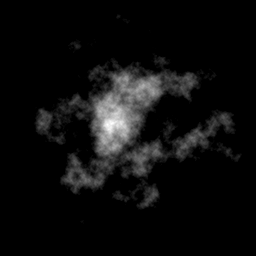
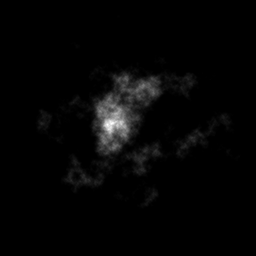
Add rivermap generation

diff --git a/src/map.rs b/src/map.rs
@@ -3,7 +3,10 @@ use noise::NoiseFn;
 use image::RgbImage;
 use image::Rgb;
 
+use pathfinding::directed::dijkstra::dijkstra;
+
 use std::cmp::max;
+use std::collections::HashMap;
 use std::path::PathBuf;
 
 struct PerlinOctave {
@@ -65,6 +68,7 @@ pub struct ProvBuilder {
     pub heightmap: Vec<f64>,
     pub tempmap: Vec<f64>,
     pub rainmap: Vec<f64>,
+    pub rivermap: Vec<f64>,
     water_level: f64,
     water_taper: f64,
     temp_base: f64,
@@ -73,6 +77,11 @@ pub struct ProvBuilder {
     rain_wind: (f64, f64),
     rain_height: f64,
     rain_fall: f64,
+    river_height: f64,
+    river_rain: f64,
+    river_spread: f64,
+    river_drill: f64,
+    river_drainage: f64,
 }
 
 impl ProvBuilder {
@@ -80,6 +89,7 @@ impl ProvBuilder {
         size: usize, freq: f64, pers: f64, lac: f64, min: f64, max: f64, water_level: f64, water_taper: f64, 
         temp_base: f64, temp_height: f64, temp_latitude: f64,
         rain_wind: (f64, f64), rain_height: f64, rain_fall: f64,
+        river_height: f64, river_rain: f64, river_spread: f64, river_drill: f64, river_drainage: f64,
     ) -> Self {
         let noise = PerlinOctave {
             noise: Perlin::new(),
@@ -97,6 +107,7 @@ impl ProvBuilder {
             heightmap: Vec::new(),
             tempmap: Vec::new(),
             rainmap: Vec::new(),
+            rivermap: Vec::new(),
             water_level,
             water_taper,
             temp_base,
@@ -105,6 +116,11 @@ impl ProvBuilder {
             rain_wind,
             rain_height,
             rain_fall,
+            river_height,
+            river_rain,
+            river_spread,
+            river_drill,
+            river_drainage
         }
     }
 
@@ -123,7 +139,7 @@ impl ProvBuilder {
                     _ => 0.,
                 };
 
-                self.heightmap.push(val);
+                self.heightmap.push(val * val);
             }
         }
     }
@@ -272,6 +288,94 @@ impl ProvBuilder {
         let max = self.rainmap.iter().max_by(|x, y| x.partial_cmp(y).unwrap()).unwrap();
         let min = self.rainmap.iter().min_by(|x, y| x.partial_cmp(y).unwrap()).unwrap();
         self.rainmap = self.rainmap.iter().map(|x| (x - min) / (max - min)).collect();
+    }
+
+    pub fn gen_rivermap(&mut self) {
+        let size = self.noise.size;
+
+        let choices = [
+            1,
+            -1 as isize,
+            size as isize,
+            -(size as isize),
+            1 + size as isize,
+            -1 + size as isize,
+            1 - (size as isize),
+            -1 - (size as isize),
+        ];
+
+        let mut river_drainage = vec![0; size * size];
+        let mut stack = Vec::new();
+
+        loop {
+            if stack.is_empty() {
+                if let Some((i, _)) = self.heightmap
+                    .iter()
+                    .enumerate()
+                    .filter(|(i, &height)| {
+                        height > 0. && river_drainage[*i] == 0
+                    })
+                    .min_by(|(_, a), (_, b)| a.partial_cmp(b).unwrap()) 
+                {
+                    stack.push(i);
+                } else {
+                    break;
+                }
+            }
+
+            let i = stack.pop().unwrap();
+            let (paths, _) = dijkstra(&i, 
+                |&i| {
+                    let choices: Vec<(usize, usize)> = choices
+                        .iter()
+                        .map(|ii| {
+                            let ii = (i as isize + ii) as usize;
+                            (ii, (4f64.powf(self.heightmap[ii] - self.heightmap[i]) * 10.) as usize)
+                        })
+                        .collect();
+                    
+                    return choices;
+                },
+                |&i| {
+                    river_drainage[i] != 0 || self.heightmap[i] == 0.
+                }
+            ).unwrap();
+            
+            for (i, &path) in paths.iter().enumerate() {
+                if i + 1 < paths.len() {
+                    river_drainage[path] = paths[i + 1];
+                }
+            }
+        }
+
+        self.rivermap = vec![0.; size * size];
+
+        for _ in 0..size*2 {
+            let mut rivermap_new = vec![0.; size * size];
+
+            for (i, &rain) in self.rainmap.iter().enumerate() {
+                if river_drainage[i] > 0 {
+                    rivermap_new[i] += rain;
+                }
+            }
+            for (i, &river) in river_drainage.iter().enumerate() {
+                if river > 0 {
+                    rivermap_new[river] += self.rivermap[i];
+                }
+            }
+
+            self.rivermap = rivermap_new;
+        }
+
+        let mx = self.rivermap
+            .iter()
+            .max_by(|a, b| a.partial_cmp(b).unwrap())
+            .unwrap()
+            .clone();
+        
+        for river in self.rivermap.iter_mut() {
+            *river /= mx;
+        }
     }
 
     pub fn export<T: Into<PathBuf>>(&self, map: &Vec<f64>, path: T) {

diff --git a/src/main.rs b/src/main.rs
@@ -259,13 +259,15 @@ impl Core {
 }
 
 fn main() {
-    let mut map = map::ProvBuilder::new(256, 0.25, 0.6, 2., 0., 1., 0.1, 0.8, 16., 8., 12., (1., -5.), 1., 0.005);
+    let mut map = map::ProvBuilder::new(256, 0.25, 0.6, 2., 0., 1., 0.1, 0.8, 16., 8., 12., (1., -5.), 1., 0.005, 1., 2., 2., 0.05, 0.001);
 
     map.gen_heightmap();
     map.gen_rainmap();
     map.gen_tempmap();
+    map.gen_rivermap();
 
     map.export(&map.heightmap, "heightmap.png");
     map.export(&map.rainmap, "rainmap.png");
     map.export(&map.tempmap, "tempmap.png");
+    map.export(&map.rivermap, "rivermap.png");
 }
